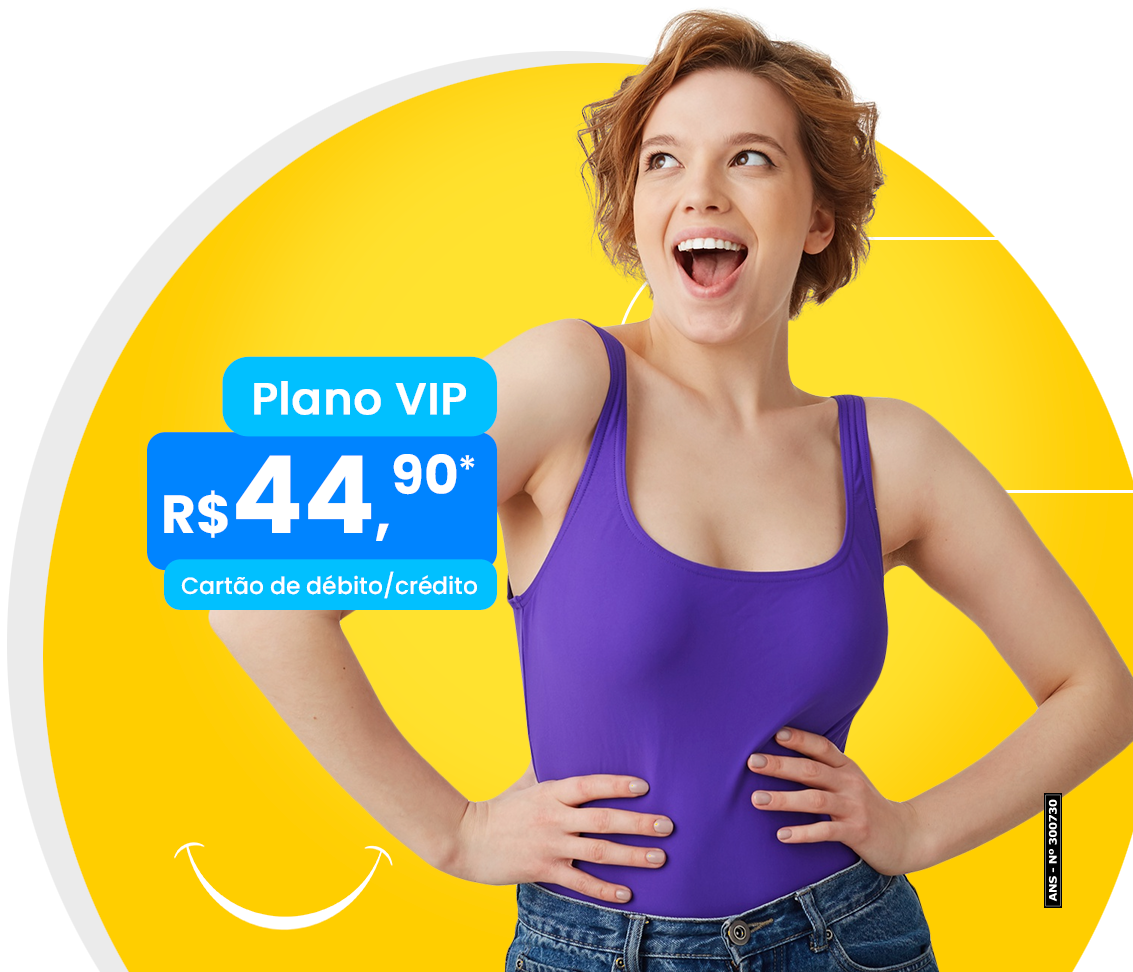
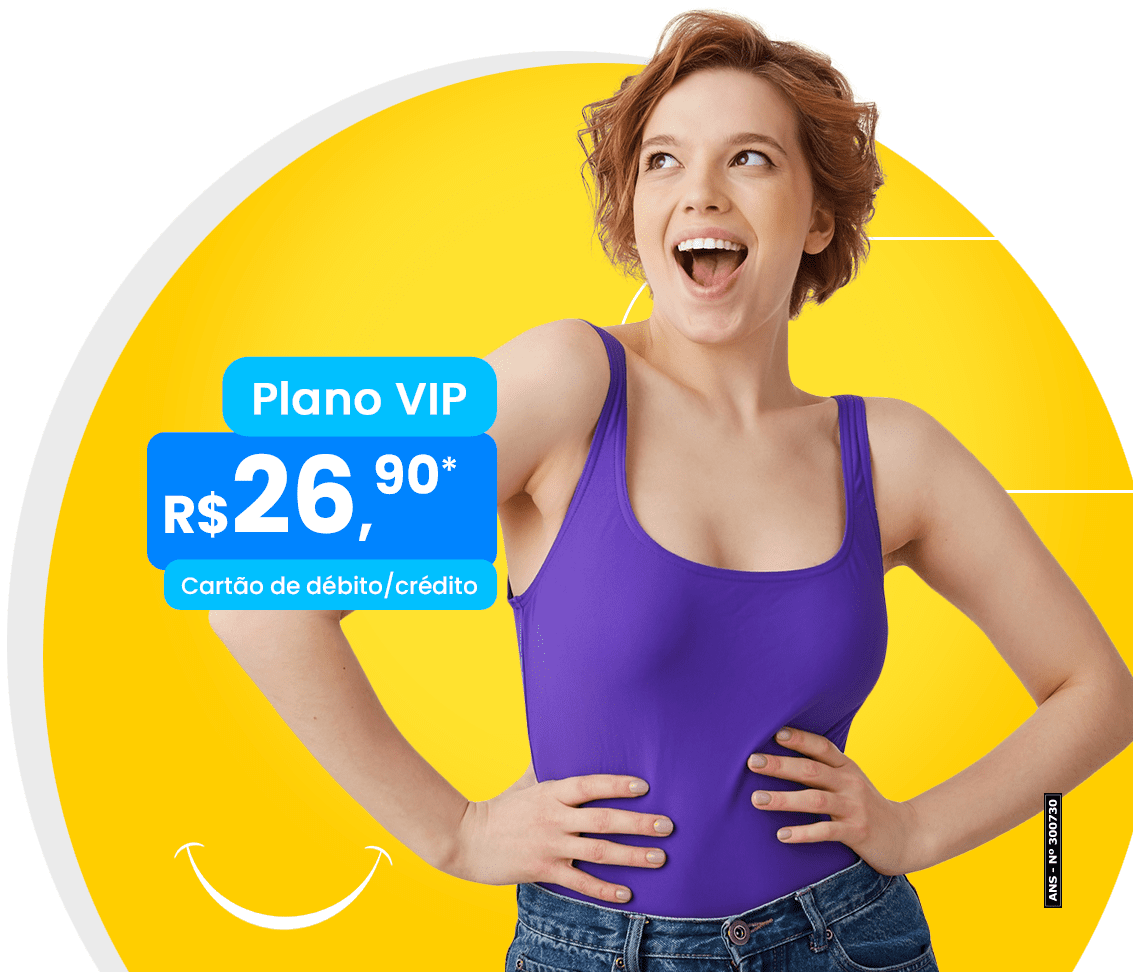
feat: Atualizando imagem do plano Vip

Changed region(s): [[0.1853, 0.463, 0.4325, 0.5556]]

diff --git a/src/pages/_document.tsx b/src/pages/_document.tsx
@@ -5,18 +5,15 @@ export default class MyDocument extends Document {
     return (
       <Html>
         <Head>
-          <link rel="shortcut icon" href="/favicon.png" />
-
           <link rel="preconnect" href="https://fonts.googleapis.com" />
-          <link
-            rel="preconnect"
-            href="https://fonts.gstatic.com"
-            crossOrigin=""
-          />
+          <link rel="preconnect" href="https://fonts.gstatic.com" />
+
           <link
             href="https://fonts.googleapis.com/css2?family=Inter:wght@400;700&display=swap"
             rel="stylesheet"
           />
+
+          <link rel="shortcut icon" href="/favicon.png" />
         </Head>
         <body>
           <Main />

diff --git a/src/styles/themes/default.ts b/src/styles/themes/default.ts
@@ -42,16 +42,16 @@ const theme = {
       900: '#082237',
     },
     secondary: {
-      50: '#FDF7E2',
-      100: '#FCF1CD',
-      200: '#FBEBB8',
-      300: '#F8DF8D',
-      400: '#F6D362',
-      500: '#F3C637',
-      600: '#DFB531',
-      700: '#CBA42B',
-      800: '#A2821E',
-      900: '#503E05',
+      50: '#F5FFE9',
+      100: '#E1F3CC',
+      200: '#CDE6AF',
+      300: '#A5CD75',
+      400: '#7DB43B',
+      500: '#549B00',
+      600: '#4E8B07',
+      700: '#487A0D',
+      800: '#426913',
+      900: '#3B5819',
     },
   },
 };
